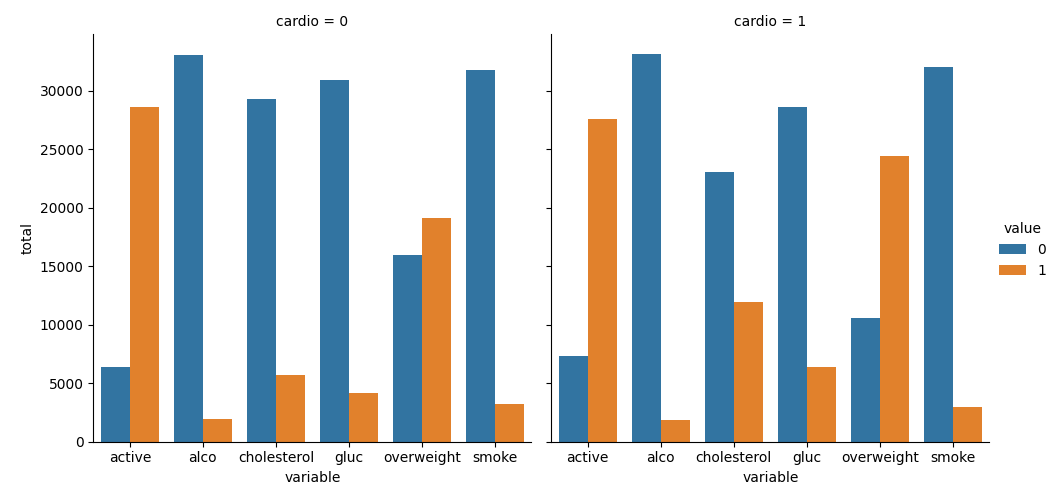
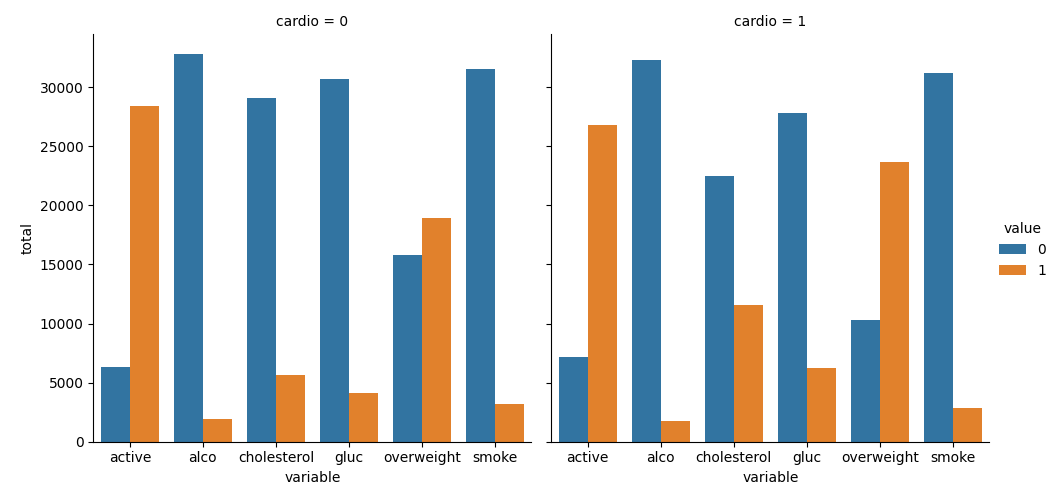
heatmap

diff --git a/main.py b/main.py
@@ -9,9 +9,20 @@ df['bmi'] = df['weight']/((df['height']/100)**2)
 df['overweight'] = np.where(df['bmi'] > 25, 1, 0)
 df['cholesterol'] = np.where(df['cholesterol'] > 1, 1, 0)
 df['gluc'] = np.where(df['gluc'] > 1, 1, 0)
+df = df[df['ap_lo'] < df['ap_hi']]
 
 df_cat = pd.melt(df, id_vars=('cardio'), value_vars=('cholesterol', 'gluc', 'smoke','alco', 'active', 'overweight'))
 df_cat['total'] = 0
 df_cat = df_cat.groupby(['cardio', 'variable', 'value'], as_index=False).count()
 fig = sns.catplot(data=df_cat, x='variable', y='total', hue='value', kind='bar', col='cardio').figure
 fig.savefig("cardio.png")
+
+df_heat = df[(df['height'] >= df['height'].quantile(0.025)) &
+                (df['height'] <= df['height'].quantile(0.975)) &
+                (df['weight'] >= df['weight'].quantile(0.025)) &
+                (df['weight'] <= df['weight'].quantile(0.975))]
+corr = df_heat.corr()
+mask = np.triu(np.ones_like(corr, dtype=bool))
+fig, ax = plt.subplots(figsize=(10, 8))
+sns.heatmap(corr, mask=mask, annot=True, fmt=".1f", cmap="icefire", cbar_kws={"shrink": 0.5}, linewidths=0.5)
+fig.savefig('heatmap.png')
